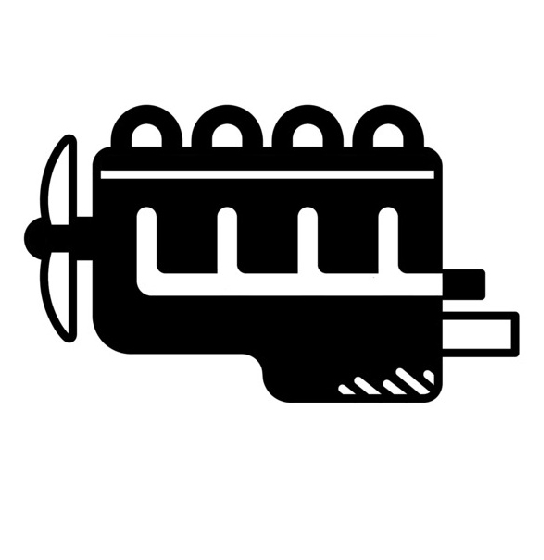
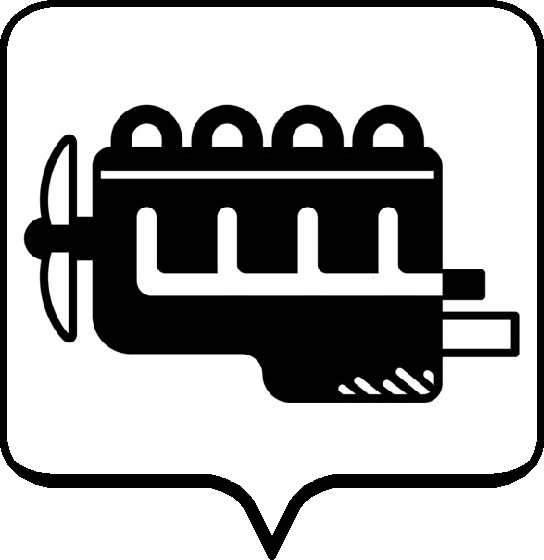
money test

Changed region(s): [[0.0, 0.0304, 1.0, 1.0], [0.0312, 0.0, 0.9688, 0.0304]]

diff --git a/Assets/1_Script/UI/LobbyScene/LobbySceneUI.cs b/Assets/1_Script/UI/LobbyScene/LobbySceneUI.cs
@@ -51,6 +51,9 @@ namespace Garage.UI.LobbyScene
 			notreadyButton.onClick.AddListener(() => {
                 NetworkTransmission.instance.IsTheClientReadyServerRPC(false, GameManagerEx.Instance.MyClientId);
             });
+            startButton.onClick.AddListener(() => {
+                NetworkTransmission.instance.StartGameServerRPC();
+            });
         }
 
 		private void OnDestroy()
